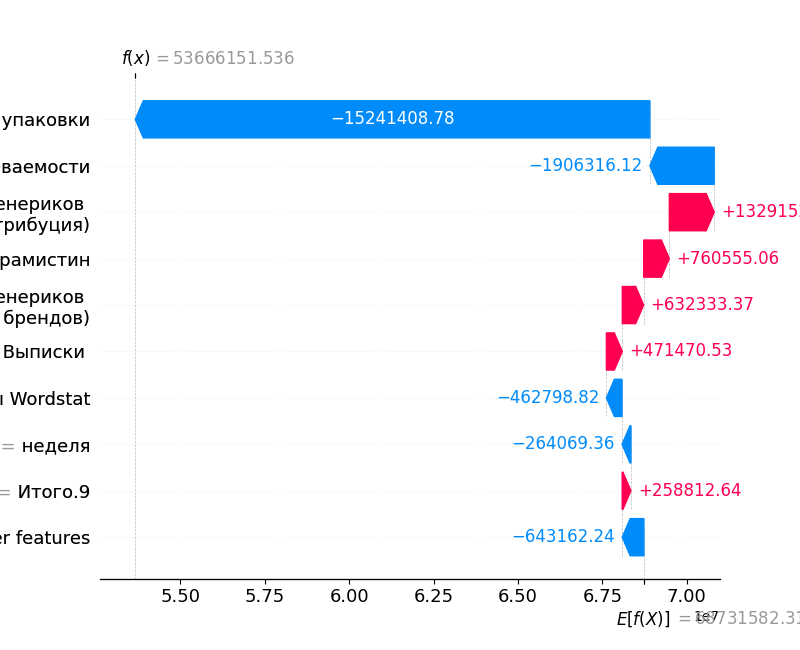
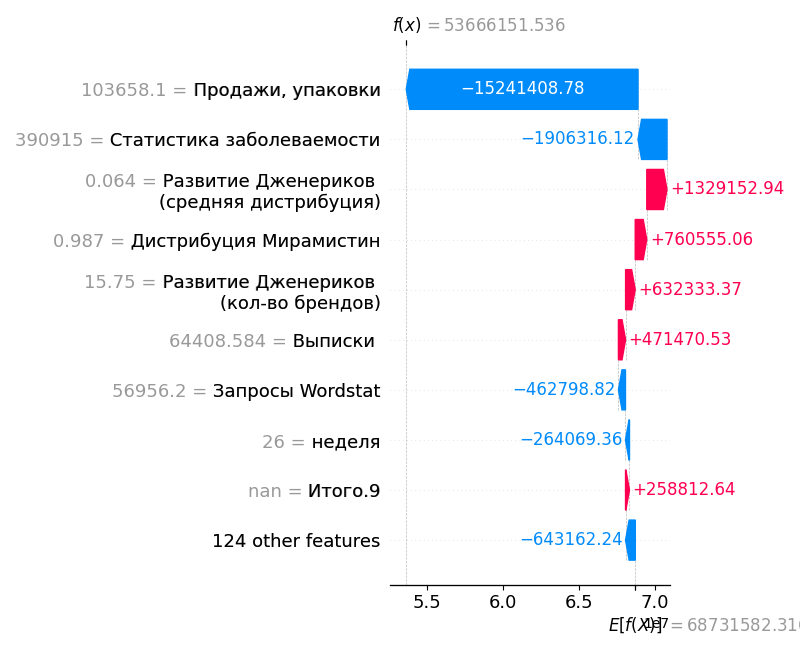
full backend(optionaly)

diff --git a/backhack/main.py b/backhack/main.py
@@ -33,32 +33,32 @@ def root():
 
 
 def getgraphs(df, model, non_numeric_features):
-    #
-    # fig = px.line(df, x='Начало нед', y='Продажи, рубли')
-    # fig.update_xaxes(ticks="outside",
-    #                  ticklabelmode="period",
-    #                  tickcolor="black",
-    #                  ticklen=10,
-    #                  minor=dict(
-    #                      ticklen=4,
-    #                      dtick=7 * 24 * 60 * 60 * 1000,
-    #                      griddash='dot',
-    #                      gridcolor='white')
-    #                  )
-    # fig.write_image('files/linear.png')
-    #
-    # df=df.drop(non_numeric_features, axis=1)
-    #
-    # # explain the model's predictions using SHAP
-    # # (same syntax works for LightGBM, CatBoost, `scikit-learn, transformers, Spark, etc.)
-    # explainer = shap.Explainer(model)
-    # shap_values = explainer(df.drop('Продажи, рубли', axis=1))
-    #
-    # # visualize the first prediction's explanation
-    #
-    # fig = shap.plots.waterfall(shap_values[0],show=False)
-    # plt.savefig('files/scratch.png')
-    pass
+    
+    fig = px.line(df, x='Начало нед', y='Продажи, рубли')
+    fig.update_xaxes(ticks="outside",
+                     ticklabelmode="period",
+                     tickcolor="black",
+                     ticklen=10,
+                     minor=dict(
+                         ticklen=4,
+                         dtick=7 * 24 * 60 * 60 * 1000,
+                         griddash='dot',
+                         gridcolor='white')
+                     )
+    fig.write_image('files/linear.png')
+    
+    df=df.drop(non_numeric_features, axis=1)
+    
+    # explain the model's predictions using SHAP
+    # (same syntax works for LightGBM, CatBoost, `scikit-learn, transformers, Spark, etc.)
+    explainer = shap.Explainer(model)
+    shap_values = explainer(df.drop('Продажи, рубли', axis=1))
+    
+    # visualize the first prediction's explanation
+    
+    fig = shap.plots.waterfall(shap_values[0],show=False)
+    plt.tight_layout()
+    plt.savefig('files/scratch.png')
 
 
 
@@ -99,6 +99,7 @@ def getInfo(date: datetime.date = '2023-07-02', file: UploadFile = None):
 
     output = rf_model.predict(next_28_rows.drop(non_numeric_features, axis=1).drop('Продажи, рубли', axis=1))
     next_28_rows['Продажи, рубли']=output
+    next_28_rows.to_excel("files/prediction.xlsx", index=False)
 
     getgraphs(next_28_rows, rf_model, non_numeric_features)
     
